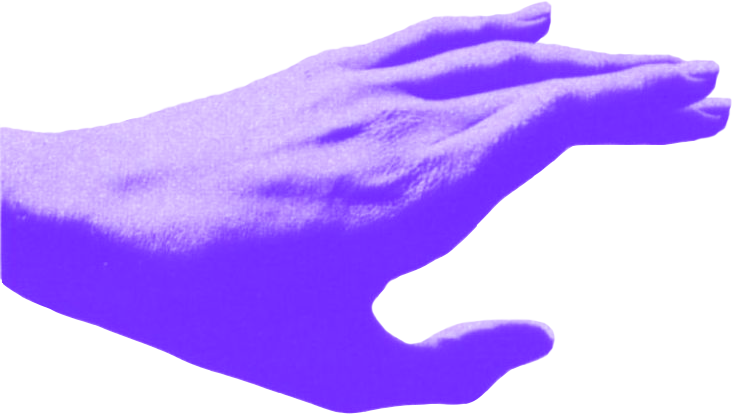
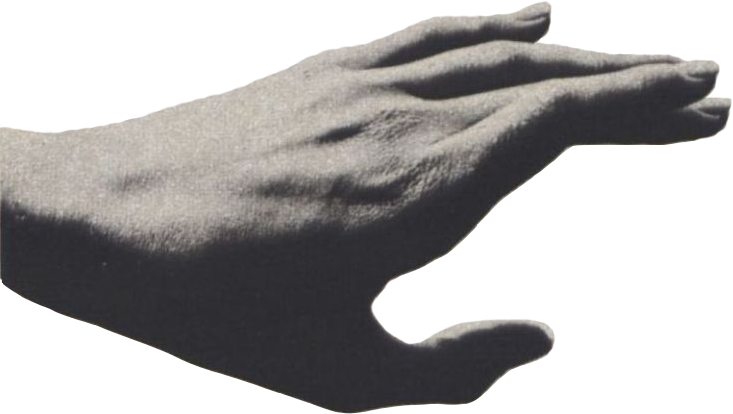
adding new images + changing primary colors + reorganizing my scss... a big commit BABEYE....:snail:

diff --git a/styles.css b/styles.css
@@ -1,28 +1,63 @@
+.hands-left, .hands-right, .chalk-line-1, .chalk-line-2, .chalk-circle-1, .chalk-circle-2, .chalk-x, .moon {
+  position: absolute;
+  z-index: -1; }
+
+.img-container {
+  position: relative; }
+
+.hands-left {
+  left: 0;
+  top: 35px; }
+
+.hands-right {
+  right: 0; }
+
+.chalk-line-1 {
+  transform: rotate(-45deg);
+  top: 380px;
+  right: 70px; }
+
+.chalk-line-2 {
+  transform: rotate(180deg);
+  top: 350px;
+  right: 50px; }
+
+.chalk-circle-1 {
+  top: 40px;
+  right: 200px; }
+
+.chalk-circle-2 {
+  transform: rotate(5deg);
+  bottom: -470px;
+  left: 170px; }
+
+.chalk-x {
+  top: 80px;
+  right: -50px; }
+
+.moon {
+  top: 235px;
+  left: 300px; }
+
 body {
   background-color: #f7f5de; }
 
-@font-face {
-  font-family: og-emoji;
-  src: url(og-dcm-emoji.ttf); }
-.og {
-  font-family: og-emoji, sans-serif; }
-
 h1 {
-  color: #5400ff;
+  color: #2d2c31;
   font: 3em "Work Sans", sans-serif;
   margin-bottom: 20px; }
 
 h2 {
-  color: #5400ff;
+  color: #2d2c31;
   font: 1em "Work Sans", sans-serif;
   text-transform: uppercase; }
 
 p {
-  color: #5400ff;
+  color: #2d2c31;
   font: 1rem "Space Mono", monospace; }
 
 a {
-  color: #5400ff;
+  color: #2d2c31;
   font: 1rem "Space Mono", monospace; }
 
 ul {
@@ -36,7 +71,7 @@ header a, footer a {
   text-transform: uppercase;
   font-size: 0.5em;
   letter-spacing: 0.5em;
-  border-bottom: 2px solid #5400ff; }
+  border-bottom: 2px solid #2d2c31; }
 
 .container {
   margin: 5% auto;
@@ -51,7 +86,7 @@ header a, footer a {
   display: inline-block;
   max-width: 50%;
   padding: 100px;
-  border: 2px solid #5400ff;
+  border: 2px solid #2d2c31;
   text-align: left; }
 
 .scroll-ind {
@@ -62,22 +97,6 @@ header a, footer a {
 
 .scroll-ind p {
   font-size: 5em; }
-
-.hands-left, .hands-right, .chalk-line {
-  position: absolute;
-  z-index: -1; }
-
-.hands-left {
-  left: 0;
-  top: 35px; }
-
-.hands-right {
-  right: 0; }
-
-.chalk-line {
-  transform: rotate(-45deg);
-  top: 380px;
-  right: 70px; }
 
 header .top {
   position: fixed;
@@ -124,6 +143,7 @@ header .right, footer .right {
   left: -75px; }
 
 .circle {
+  display: none;
   position: fixed;
   top: 175px;
   left: 300px;

diff --git a/styles.scss b/styles.scss
@@ -2,43 +2,37 @@ $header: 'Work Sans', sans-serif;
 $body: 'Space Mono', monospace;
 $white: #f7f5de;
 $off-white: #f9f9f9;
+$primary: #2d2c31;
 $blue: #5400ff;
 $red: #e8c5a0;
+
+@import 'image-pos';
 
 body {
 	background-color: $white;
 }
 
-@font-face {
-  font-family: og-emoji;
-  src: url(og-dcm-emoji.ttf);
-}
-
-.og {
-  font-family: og-emoji, sans-serif;
-}
-
 h1 {
 	//color: transparent;
-	//-webkit-text-stroke: 2px $blue;
-	color: $blue;
+	//-webkit-text-stroke: 2px $primary;
+	color: $primary;
 	font: 3em $header;
 	margin-bottom: 20px;
 }
 
 h2 {
-	color: $blue;
+	color: $primary;
 	font: 1em $header;
 	text-transform: uppercase;
 }
 
 p {
-	color: $blue;
+	color: $primary;
 	font: 1rem $body;
 }
 
 a {
-	color: $blue;
+	color: $primary;
 	font: 1rem $body;
 }
 
@@ -55,7 +49,7 @@ header a, footer a {
 	text-transform: uppercase;
 	font-size: 0.5em;
 	letter-spacing: 0.5em;
-	border-bottom: 2px solid $blue;
+	border-bottom: 2px solid $primary;
 }
 
 .container {
@@ -74,7 +68,7 @@ header a, footer a {
 	display: inline-block;
 	max-width: 50%;
 	padding: 100px;
-	border: 2px solid $blue;
+	border: 2px solid $primary;
 	text-align: left;
 }
 
@@ -87,28 +81,6 @@ header a, footer a {
 
 .scroll-ind p {
 	font-size: 5em;
-}
-
-
-.hands-left, .hands-right, .chalk-line {
-	position: absolute;
-	z-index: -1;
-}
-
-.hands-left {
-	left: 0;
-	top: 35px;
-}
-
-.hands-right {
-	right: 0;
-}
-
-.chalk-line {
-	//need to add additional transforms for browser comp
-	transform: rotate(-45deg);
-	top: 380px;
-	right: 70px
 }
 
 header .top {
@@ -142,7 +114,7 @@ header .right, footer .right {
 	position: relative;
 	max-width: 50%;
 	padding: 25px 50px;
-	//border: 2px solid $blue;
+	//border: 2px solid $primary;
 
 	img {
 		display: none;
@@ -166,6 +138,7 @@ header .right, footer .right {
 }
 
 .circle {
+	display: none;
 	position: fixed;
 	top: 175px;
 	left: 300px;

diff --git a/index.html b/index.html
@@ -24,14 +24,20 @@
         <div class="landing">
           <h1>HELLO</h1>
           <p>it's my fucking portfolio</p>
-          <div class="circle"></div>
-          <img class="chalk-line" src="assets/img/chalk-line-1.png">
-          <img class="hands-left" src="assets/img/hand-1.png" width="40%">
-          <img class="hands-right" src="assets/img/hand-2.png" width="40%">
+            <img class="moon" src="assets/img/moon.png" width="25%">
+            <img class="chalk-line-1" src="assets/img/chalk-line-1.png">
+            <img class="chalk-line-2" src="assets/img/chalk-line-2.png">
+            <img class="chalk-circle-1" src="assets/img/chalk-circle-1.png">
+            <img class="hands-left" src="assets/img/hand-1.png" width="40%">
+            <img class="hands-right" src="assets/img/hand-2.png" width="40%">
         </div>
       </div>
 
       <div class="container">
+        <div class="img-container">
+          <img class="chalk-circle-2" src="assets/img/chalk-circle-2.png">
+          <img class="chalk-x" src="assets/img/chalk-x.png">
+        </div>
         <div class="header-box">
           <h1>
             HEY... &#x1F33F;&#xFE0E; 
@@ -75,10 +81,10 @@
     </div>
     <footer>
       <div class="bottom left">
-        <a href="index.html">selected work</a>
+        <a href="index.html">contact</a>
       </div>
       <div class="bottom right">
-        <a href="index.html">contact</a>
+        <a href="index.html">selected work</a>
       </div>
     </footer>
   </body>
